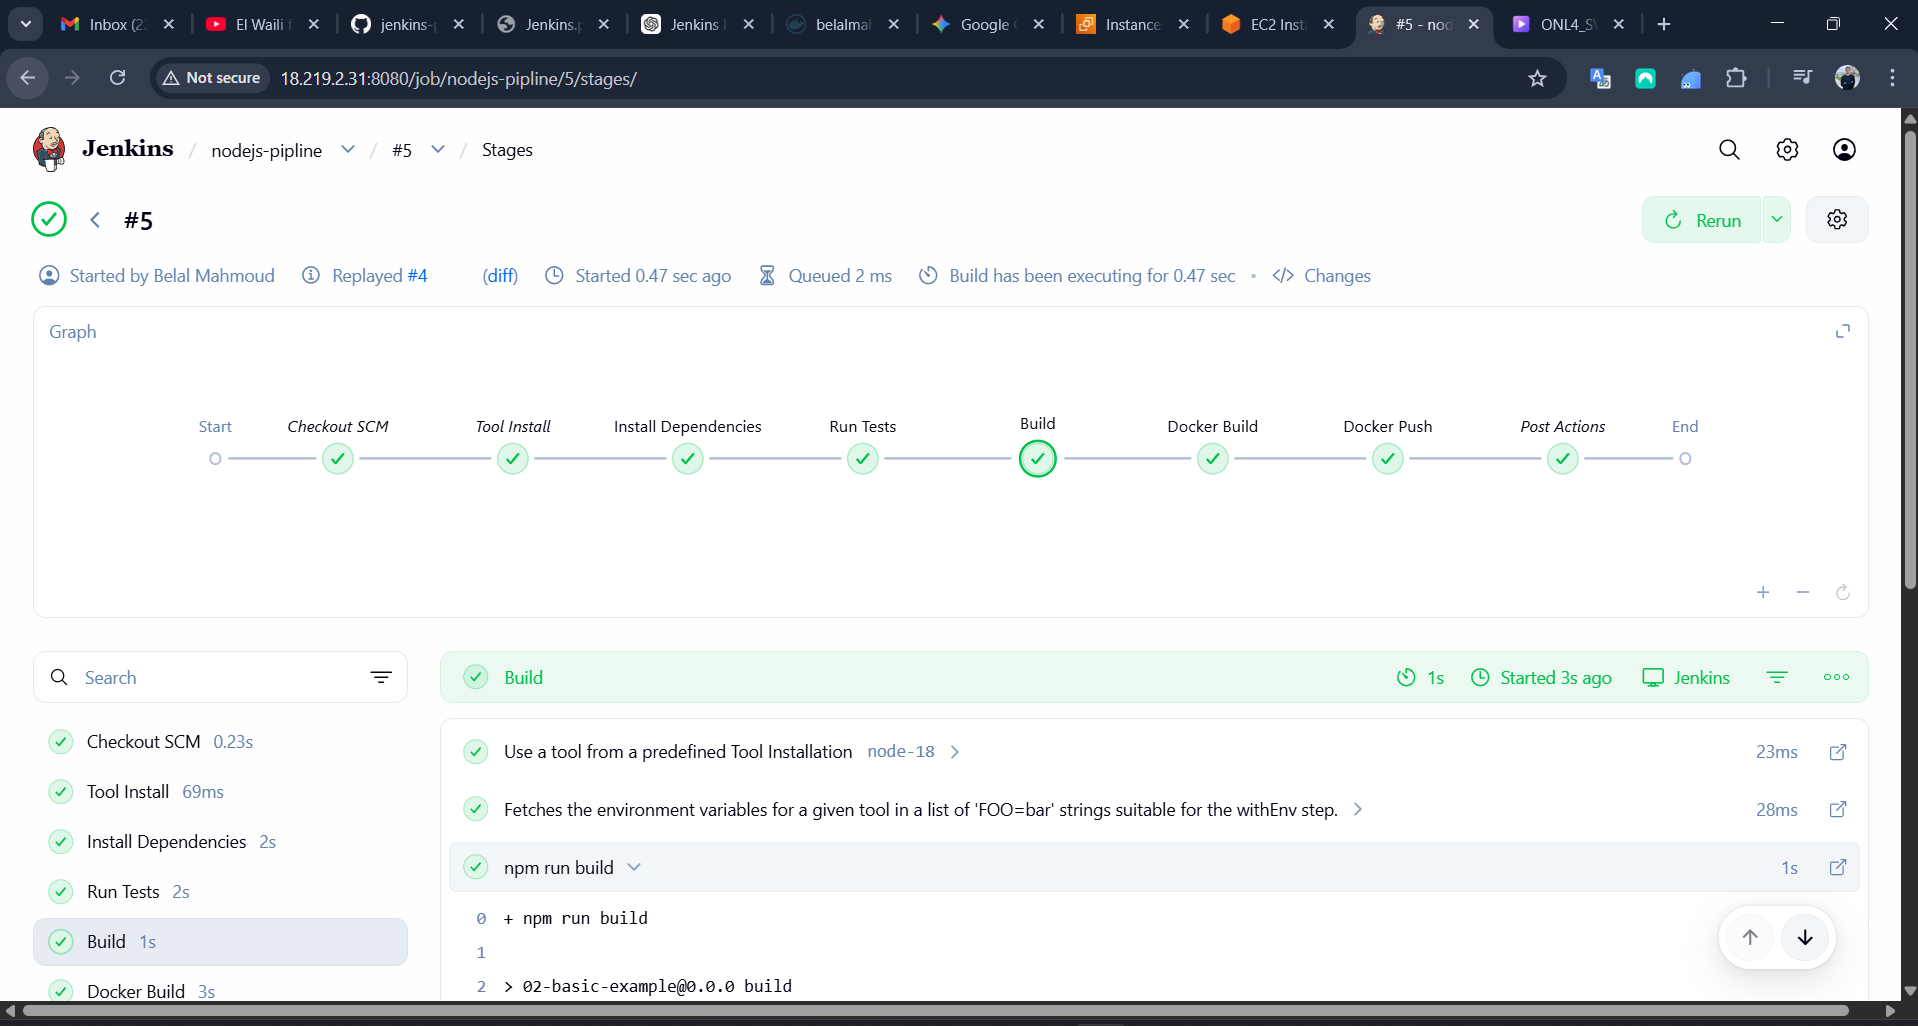
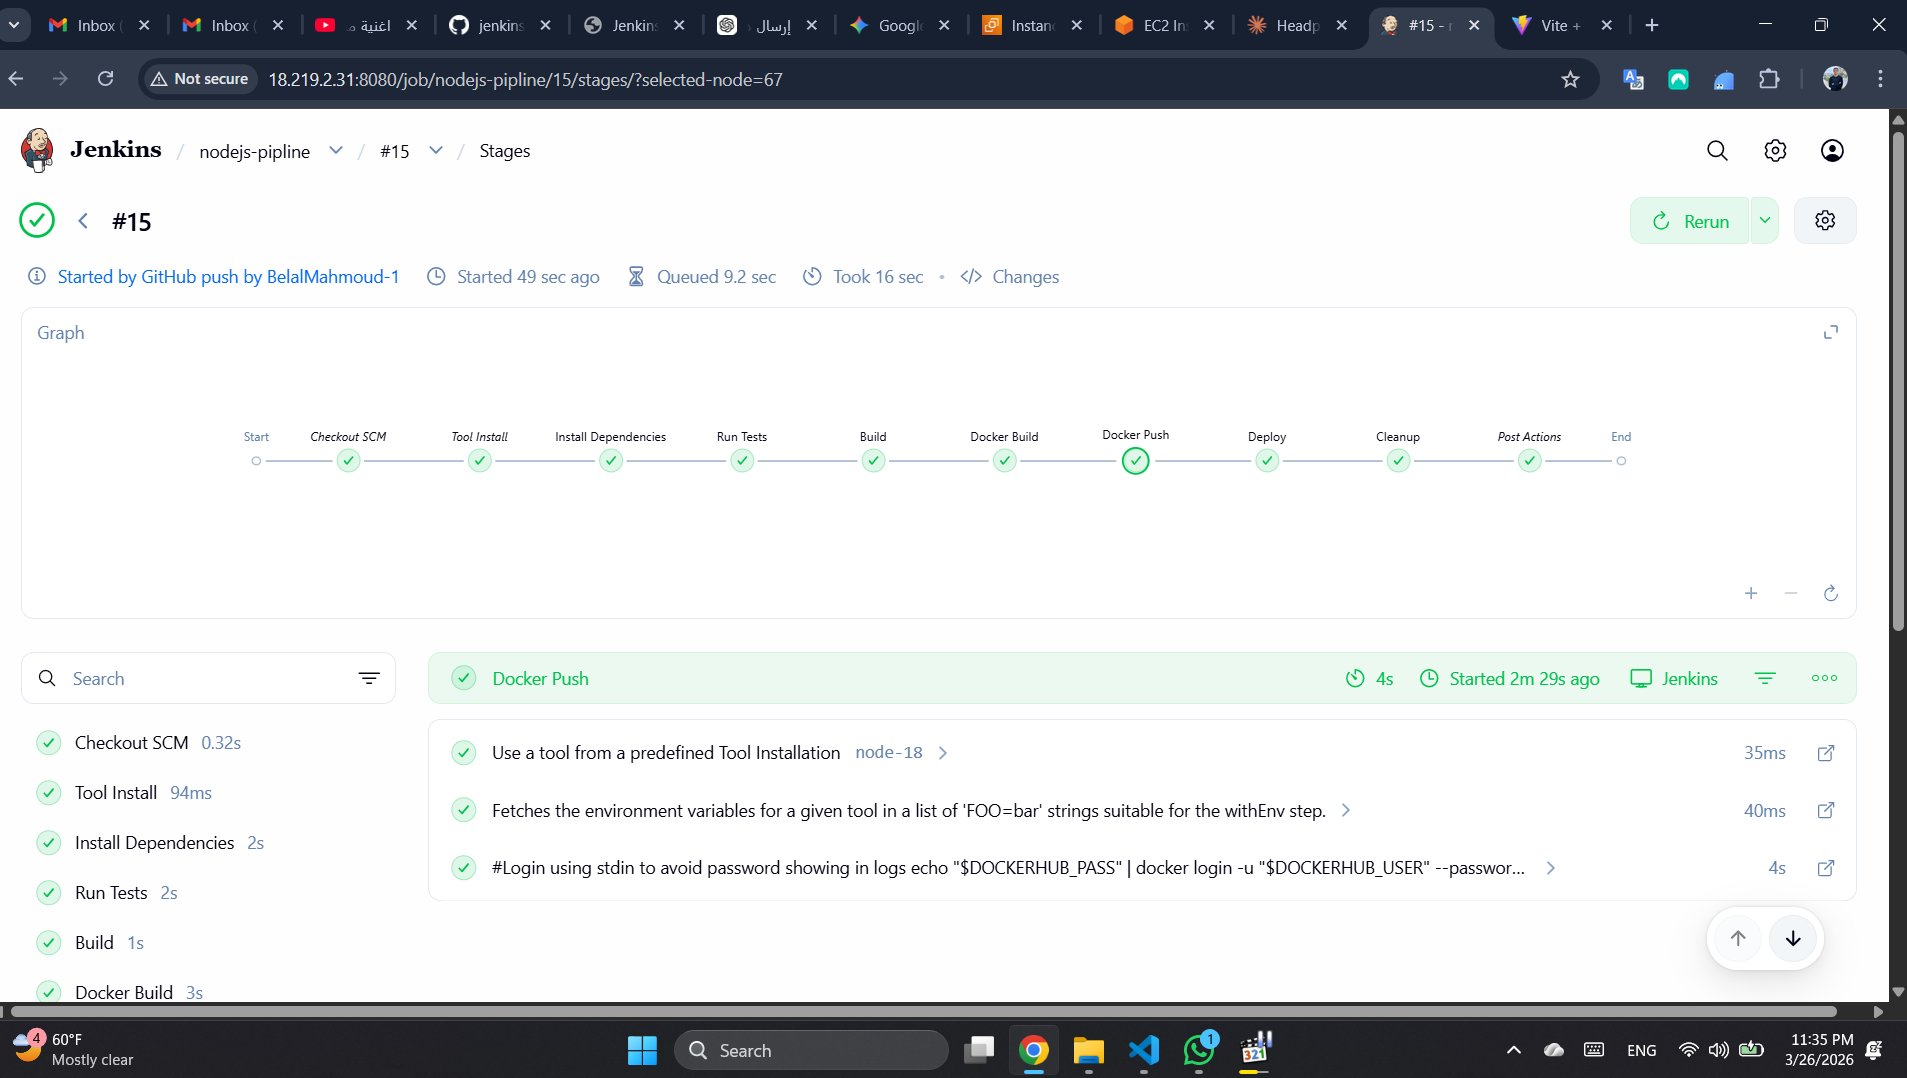
update the readmd.md

diff --git a/README.md b/README.md
@@ -134,19 +134,39 @@ Once set up, every push to your repository will automatically trigger the Jenkin
 ---
 ## Jenkins CI/CD Pipeline
 
+
 The Jenkins pipeline automates the following steps:
 
 1. **Install dependencies:** Runs `npm install`.
 2. **Run tests:** Executes all unit tests to ensure code quality.
 3. **Build app:** Compiles the React app for production.
-4. **Docker build:** Builds a Docker image and tags it with the Jenkins build number and `latest`.
-5. **Docker push:** Pushes the image to DockerHub using secure Jenkins credentials.
+4. **Docker build:** Builds a Docker image and tags it with the Jenkins build number (`belalmahmoud81/react-app:<build_number>`) and `latest`.
+5. **Docker push:** Pushes both tags to DockerHub using secure Jenkins credentials.
+6. **Deploy:** Runs the Docker container from the `latest` image tag. (Note: The pipeline can be improved by stopping/removing any previous container before running a new one.)
+7. **Cleanup:** Removes local Docker images after deployment to free up disk space.
 
-### Jenkins Setup
+#### Jenkins Setup
 
-1. Add a Jenkins credential (type: Username with password) with ID `DockerHub` for DockerHub login.
+1. Add a Jenkins credential (type: Username with password) with ID `dockerhub` for DockerHub login (matches the Jenkinsfile).
 2. Ensure your Jenkins agent has Docker installed and access to DockerHub.
 3. Create a pipeline job pointing to this repository. Jenkins will automatically detect the `Jenkinsfile` and run the pipeline on each push.
+
+#### Notes on Deployment and Cleanup
+
+- The deploy stage runs the container with:
+	```sh
+	docker run -d -p 80:80 belalmahmoud81/react-app:latest
+	```
+	For production, consider stopping/removing any previous container before running a new one to avoid port conflicts:
+	```sh
+	docker rm -f react-app || true
+	docker run -d --name react-app -p 80:80 belalmahmoud81/react-app:latest
+	```
+- The cleanup stage removes the images tagged with the build number and `latest` to save disk space:
+	```sh
+	docker rmi belalmahmoud81/react-app:<build_number> || true
+	docker rmi belalmahmoud81/react-app:latest || true
+	```
 
 ---
 
